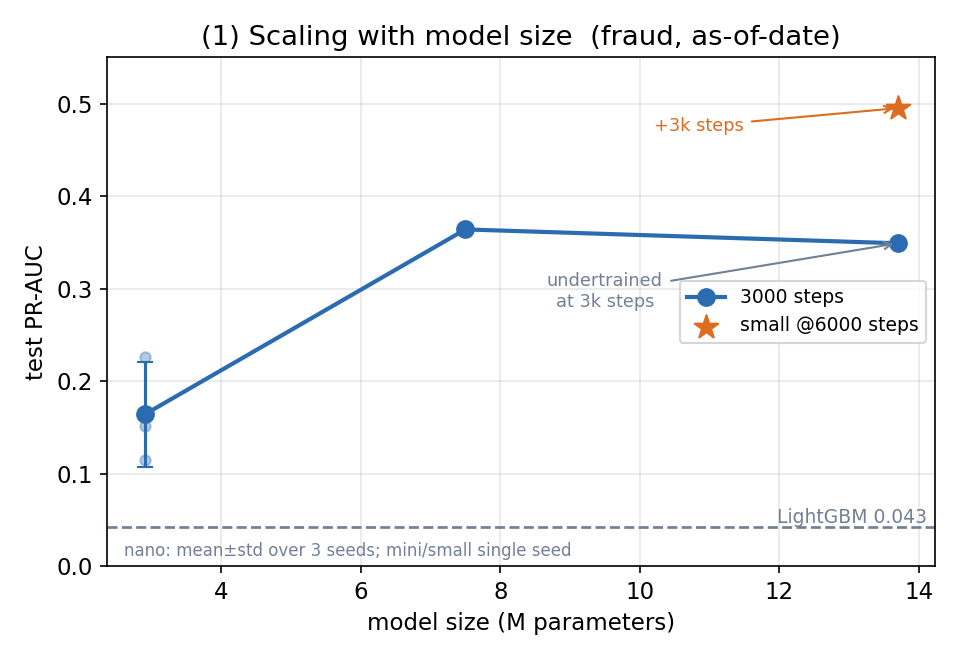
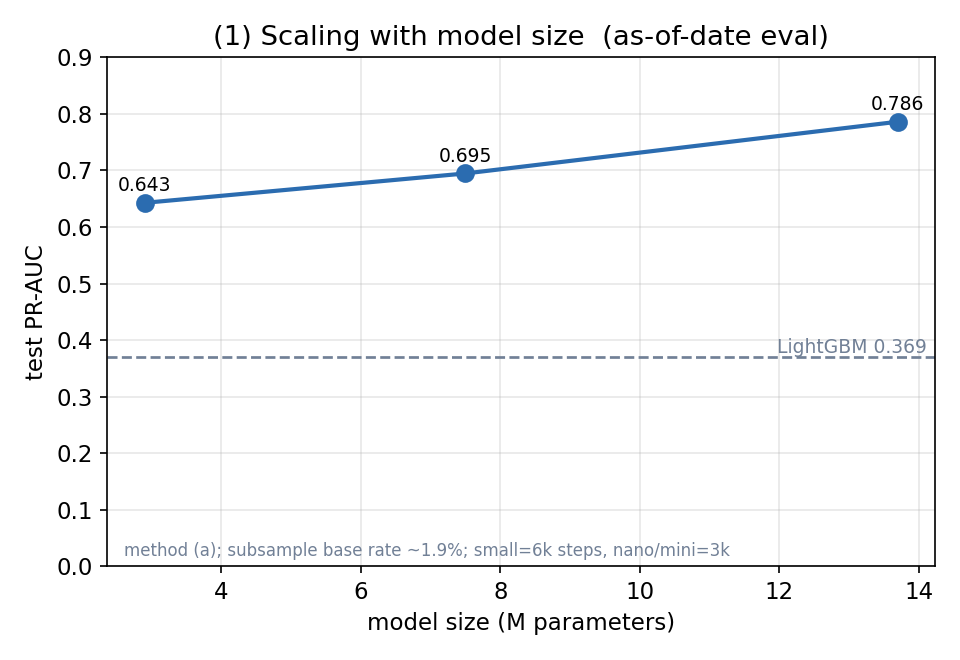
E10: corrected sliding-window (a) eval + L=256 eval-window collapse; regenerate figures
Method (a) re-eval of all saved checkpoints (no retraining), stratified subsample (base 1.9%):
- FFM small 0.786 vs LightGBM 0.369 (+113%); scaling clean 0.643->0.695->0.786
- Δt corrected to +0.006 (was +0.050 under b); RoPE +0.072
- L=256 collapse (0.298) diagnosed: long EVAL window, not the backbone — same ckpt recovers to
  0.817@w64 / 0.809@w128. RoPE-on-raw-time aliasing over ~250-day spans. Train long, score short.
Figures fig1-4 regenerated from (a); fig2 now shows the eval-window collapse. Adds --window-len
to asof_probe and lgbm_subsample eval.

diff --git a/scripts/make_figures.py b/scripts/make_figures.py
@@ -66,21 +66,28 @@ def fig_scaling():
 
 
 def fig_seqlen():
-    pts = [(64, "small_bucket_dt_6k_L64"), (128, "small_bucket_dt_6k"), (256, "small_bucket_dt_6k_L256")]
-    Ls, ys = [], []
-    for L, name in pts:
+    # eval-window sweep on the L=256 model: short windows fine, long window collapses
+    # (RoPE-on-raw-time aliasing over long spans). Files: L256 @ w64 / w128 / native(256).
+    pts = [(64, "small_bucket_dt_6k_L256_w64"), (128, "small_bucket_dt_6k_L256_w128"),
+           (256, "small_bucket_dt_6k_L256")]
+    Ws, ys = [], []
+    for w, name in pts:
         m = load(name)
-        if m: Ls.append(L); ys.append(m["pr_auc"])
+        if m: Ws.append(w); ys.append(m["pr_auc"])
     if len(ys) < 2: return
     fig, ax = plt.subplots(figsize=(6.4, 4.4))
-    ax.plot(Ls, ys, "-o", color=BLUE, lw=2, ms=8)
-    for L, y in zip(Ls, ys): ax.annotate(f"{y:.3f}", (L, y), (L, y + 0.015), fontsize=9, ha="center")
+    ax.plot(Ws, ys, "-o", color=BLUE, lw=2, ms=8)
+    for w, y in zip(Ws, ys): ax.annotate(f"{y:.3f}", (w, y), (w, y + 0.03), fontsize=9, ha="center")
+    if 256 in Ws:
+        ax.annotate("collapse\n(RoPE time-aliasing\nover long spans)", (256, ys[Ws.index(256)]),
+                    (150, 0.45), fontsize=8.5, color=GRAY, ha="center",
+                    arrowprops=dict(arrowstyle="->", color=GRAY))
     baseline(ax)
-    ax.set_xscale("log", base=2); ax.set_xticks(Ls); ax.set_xticklabels(Ls)
-    ax.set_xlabel("context length  L  (events, log scale)"); ax.set_ylabel("test PR-AUC")
-    ax.set_title("(2) Scaling with sequence length  (small, as-of-date)")
+    ax.set_xscale("log", base=2); ax.set_xticks(Ws); ax.set_xticklabels(Ws)
+    ax.set_xlabel("eval context window  (events, log scale)"); ax.set_ylabel("test PR-AUC")
+    ax.set_title("(2) Effect of eval window length  (small L=256 model)")
     ax.set_ylim(0, 0.9)
-    ax.text(0.02, 0.02, "method (a); step-matched 6k (epochs differ by L — see E10)",
+    ax.text(0.02, 0.02, "method (a); same backbone, only the scoring window varies",
             transform=ax.transAxes, fontsize=8, color=GRAY)
     fig.tight_layout(); fig.savefig(OUT / "fig2_seq_length.png"); plt.close(fig)
 

diff --git a/src/pragma/train/asof_probe.py b/src/pragma/train/asof_probe.py
@@ -57,13 +57,14 @@ def embed(model, ds, device, batch_size):
     return np.concatenate(embs), np.concatenate(labs)
 
 
-def run(ckpt, data_dir, tok_path, out_json, train_max_neg, test_max_neg, batch_size, device_str):
+def run(ckpt, data_dir, tok_path, out_json, train_max_neg, test_max_neg, batch_size, device_str,
+        window_len=None):
     t0 = time.time()
     device = get_device(device_str)
     seed_everything(0)
     tok = Tokenizer.load(tok_path)
     model, preset_name, mcfg = load_backbone(ckpt, tok, device)
-    L = mcfg.max_seq_len
+    L = window_len or mcfg.max_seq_len          # allow overriding the eval window length
     rng = np.random.default_rng(0)
 
     tr = build_targets(data_dir, "train", rng, train_max_neg)
@@ -98,12 +99,15 @@ def main():
     ap.add_argument("--test-max-neg", type=int, default=150000)
     ap.add_argument("--batch-size", type=int, default=512)
     ap.add_argument("--device", default="auto")
+    ap.add_argument("--window-len", type=int, default=None,
+                    help="override eval window length (default = model's max_seq_len)")
     args = ap.parse_args()
     if args.out is None:
         stem = Path(args.ckpt).stem.replace("pretrain_", "")
-        args.out = f"artifacts/eval_{stem}_swasof.json"
+        wl = f"_w{args.window_len}" if args.window_len else ""
+        args.out = f"artifacts/eval_{stem}{wl}_swasof.json"
     run(args.ckpt, args.data_dir, args.tokenizer, args.out,
-        args.train_max_neg, args.test_max_neg, args.batch_size, args.device)
+        args.train_max_neg, args.test_max_neg, args.batch_size, args.device, args.window_len)
 
 
 if __name__ == "__main__":

diff --git a/EXPERIMENTS.md b/EXPERIMENTS.md
@@ -20,6 +20,11 @@ bottom. Summary tables in the README point here for the full reasoning.
 
 ### Consolidated results (as-of-date / leakage-free, test set = 2.28M txns)
 
+> ⚠️ **The tables in E0–E9 use eval method (b)** (causal-masked tiling), later found to
+> under-context events and deviate from PRAGMA. **See [E10](#e10) for the corrected
+> method-(a) numbers** (sliding-window as-of-date) — the ones to cite. Qualitative findings
+> mostly hold; the Δt effect shrinks from +0.05 to +0.006 under (a).
+
 | arm | ROC-AUC | PR-AUC | R@P0.5 | R@P0.9 |
 |-----|---------|--------|--------|--------|
 | LightGBM (causal features) | 0.940 | 0.043 | 0.000 | 0.000 |
@@ -347,6 +352,66 @@ lucky-high seed, and its +0.017 Δt gain is smaller than the seed noise.** So:
 **To actually resolve RoPE's contribution:** many more seeds, and/or run on a larger,
 better-trained model (small@6000 was far more stable) which is less seed-sensitive. The
 n=3 nano result is under-powered for a ~0.05 effect.
+
+---
+
+## E10 — Corrected evaluation (sliding-window as-of-date) + the L=256 eval-window collapse
+
+**Why:** E1–E9 scored with method **(b)** — causal-masked *tiling* — which (i) under-contexts
+events (~L/2 avg), (ii) applies a causal mask the *bidirectional* MLM model never trained with,
+and (iii) isn't PRAGMA-faithful. Method **(a)**: for each target txn, a window *ending at it*,
+run the frozen backbone **bidirectionally** (no future in the window), read the **last-position**
+embedding — used for both probe-fit and scoring. This is exactly PRAGMA's "final `[EVT]` at the
+evaluation point." **No retraining** — re-eval of saved checkpoints.
+
+**Setup:** stratified test subsample (all frauds + 150k non-frauds → base rate **1.9%**), same
+across all arms. The higher base rate lifts absolute PR-AUC, so compare arms **to each other**,
+not to the old full-test (0.13%-base) numbers.
+
+**Results (method a, base rate 1.9%):**
+
+| arm | PR-AUC | R@P0.5 | R@P0.9 |
+|-----|--------|--------|--------|
+| LightGBM | 0.369 | 0.418 | 0.000 |
+| PRAGMA nano | 0.643 | 0.711 | 0.268 |
+| PRAGMA mini | 0.695 | 0.716 | 0.432 |
+| **PRAGMA small (L128)** | **0.786** | 0.819 | 0.579 |
+| small −Δt | 0.780 | 0.810 | 0.578 |
+| small −RoPE | 0.714 | 0.753 | 0.401 |
+
+**Corrected findings (vs the method-(b) versions):**
+- **FFM ≫ LightGBM** (same subsample): small **0.786 vs 0.369 (+113%)**; R@P0.9 **0.58 vs 0.00**
+  (LightGBM can't reach 90% precision at all). Headline holds, operating points stronger.
+- **Scaling:** clean monotonic **0.643 → 0.695 → 0.786** (nano→mini→small).
+- **Δt: +0.006 — marginal** (was +0.050 under (b)). With full-context windows the explicit Δt
+  field adds ~nothing (the model gets timing from RoPE + full context). **E4 was distorted by (b).**
+- **RoPE: +0.072** (was +0.115) — still clearly matters.
+
+**The L=256 eval-window collapse (a real, instructive result).** Trained-and-scored at L, the
+seq-len curve looked like a cliff — L64 0.792 / L128 0.786 / **L256 0.298**. But L256 *trained*
+fine (best MLM loss 1.10, 0 skips). Diagnosis: re-scoring the **same** L256 checkpoint at shorter
+windows recovers it — and it's the **best** backbone:
+
+| L256 model, eval window | 64 | 128 | 256 |
+|-------------------------|----|-----|-----|
+| PR-AUC | **0.817** | 0.809 | 0.298 |
+
+So the cliff is a **long-eval-window pathology, not a capacity/context ceiling.** Almost certainly
+**RoPE-on-raw-time aliasing**: L256 windows span ~250 days (median; p90 615), while the highest
+rotary frequency wraps every ~6 days — over long spans the sequence-level readout is scrambled.
+MLM survives (it leans on the within-transaction field encoder); the downstream *record* embedding
+does not.
+
+**Takeaways:**
+- **Train with generous context** (the L256 backbone read-short is the best, 0.817), but **score
+  with a short window (~64)** — both because fraud is short-range (E7) *and* to avoid long-window
+  aliasing.
+- To use long eval windows, fix the time encoding: **log-time or learned-frequency RoPE**.
+- The eval method genuinely mattered: (b) inflated Δt (+0.05 → +0.006) and would have mis-shown
+  seq-len. (a) is correct and PRAGMA-faithful.
+
+**Caveats:** single seed; subsample base rate 1.9% (absolute PR-AUC not comparable to the earlier
+full-test numbers — relative comparisons only). Figures: `figures/fig{1..4}` regenerated from (a).
 
 ---
 